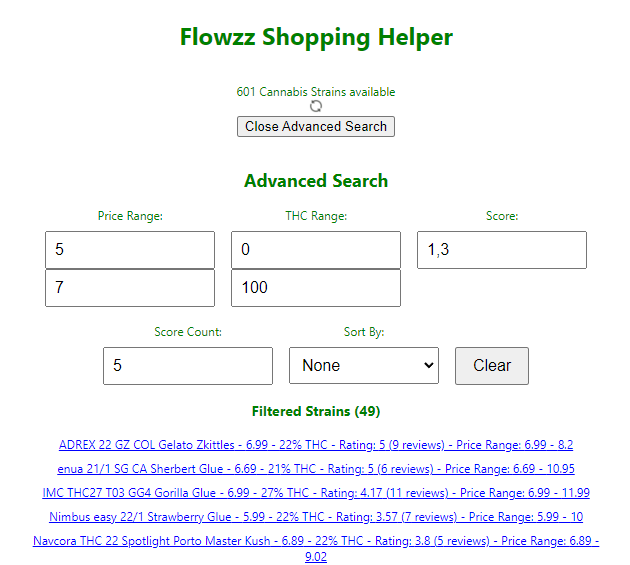
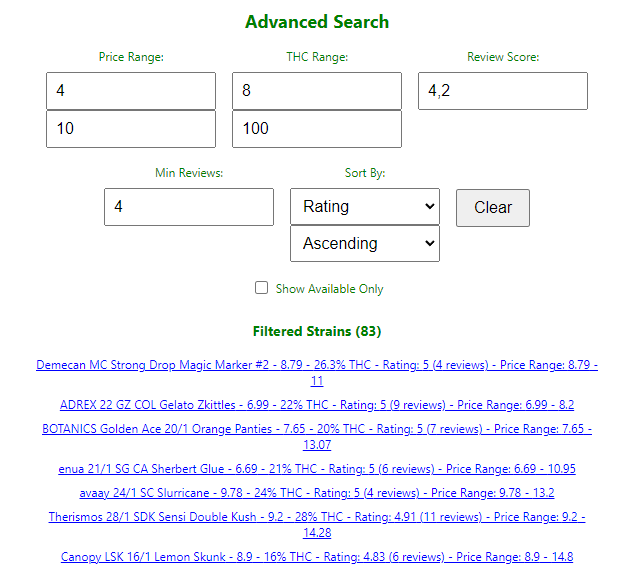
better advanced search

diff --git a/src/components/AdvancedSearch.svelte b/src/components/AdvancedSearch.svelte
@@ -11,6 +11,8 @@
     let ratingMin = 0;
     let scoreCountMin = 0;
     let sortOption = '';
+    let sortOrder = 'asc';
+    let showAvailableOnly = false;
   
     // Reactive computed property for filtered strains
     $: filteredStrains = cannabisStrains.filter(strain => {
@@ -23,22 +25,32 @@
       // Apply rating filter
       const isRatingInRange = strain.ratings_score >= ratingMin && strain.ratings_count >= scoreCountMin;
   
-      return isPriceInRange && isThcInRange && isRatingInRange;
+      // Apply availability filter
+      const isAvailable = showAvailableOnly ? strain.availibility === 1 : true;
+  
+      return isPriceInRange && isThcInRange && isRatingInRange && isAvailable;
     }).sort((a, b) => {
+      let comparison = 0;
       switch (sortOption) {
-        case 'alphabetAsc':
-          return a.name.localeCompare(b.name);
-        case 'alphabetDesc':
-          return b.name.localeCompare(a.name);
+        case 'name':
+          comparison = a.name.localeCompare(b.name);
+          break;
         case 'price':
-          return a.min_price - b.min_price;
+          comparison = a.min_price - b.min_price;
+          break;
         case 'rating':
-          return b.ratings_score - a.ratings_score;
+          comparison = b.ratings_score - a.ratings_score;
+          break;
         case 'thc':
-          return b.thc - a.thc;
+          comparison = b.thc - a.thc;
+          break;
+        case 'reviewCount':
+          comparison = b.ratings_count - a.ratings_count;
+          break;
         default:
-          return 0;
+          break;
       }
+      return sortOrder === 'asc' ? comparison : -comparison;
     });
   
     function openInCurrentTab(url) {
@@ -55,16 +67,16 @@
         thcMax,
         ratingMin,
         scoreCountMin,
-        sortOption
+        sortOption,
+        sortOrder,
+        showAvailableOnly
       };
-      console.log("Saving state:", state); // Debug log
       localStorage.setItem('advancedSearchState', JSON.stringify(state));
     }
   
     function loadState() {
       const state = JSON.parse(localStorage.getItem('advancedSearchState'));
       if (state) {
-        console.log("Loading state:", state); // Debug log
         priceMin = state.priceMin;
         priceMax = state.priceMax;
         thcMin = state.thcMin;
@@ -72,8 +84,8 @@
         ratingMin = state.ratingMin;
         scoreCountMin = state.scoreCountMin;
         sortOption = state.sortOption;
-      } else {
-        console.log("No state found in localStorage."); // Debug log
+        sortOrder = state.sortOrder;
+        showAvailableOnly = state.showAvailableOnly;
       }
     }
   
@@ -85,6 +97,8 @@
       ratingMin = 0;
       scoreCountMin = 0;
       sortOption = '';
+      sortOrder = 'asc';
+      showAvailableOnly = false;
       saveState();
     }
   
@@ -107,26 +121,36 @@
         <input type="number" bind:value={thcMax} min="0" max="100" placeholder="Max THC" on:input={saveState}/>
       </div>
       <div class="filter-item">
-        <label>Score:</label>
+        <label>Review Score:</label>
         <input type="number" bind:value={ratingMin} min="0" max="5" step="0.1" placeholder="Min Score" on:input={saveState}/>
       </div>
       <div class="filter-item">
-        <label>Score Count:</label>
+        <label>Min Reviews:</label>
         <input type="number" bind:value={scoreCountMin} min="0" placeholder="Min Score Count" on:input={saveState}/>
       </div>
       <div class="filter-item">
         <label>Sort By:</label>
         <select bind:value={sortOption} on:change={saveState}>
           <option value="">None</option>
-          <option value="alphabetAsc">Alphabet (ASC)</option>
-          <option value="alphabetDesc">Alphabet (DESC)</option>
+          <option value="name">Name</option>
           <option value="price">Price</option>
           <option value="rating">Rating</option>
           <option value="thc">THC</option>
+          <option value="reviewCount">Review Count</option>
+        </select>
+        <select bind:value={sortOrder} on:change={saveState}>
+          <option value="asc">Ascending</option>
+          <option value="desc">Descending</option>
         </select>
       </div>
       <div class="filter-item">
         <button class="clear-button" on:click={clearFilters}>Clear</button>
+      </div>
+      <div class="filter-item checkbox-item">
+        <label class="checkbox-container">
+          <input type="checkbox" bind:checked={showAvailableOnly} on:change={saveState}/>
+          Show Available Only
+        </label>
       </div>
     </div>
   
@@ -157,6 +181,18 @@
       flex-direction: column;
       align-items: center;
     }
+    .checkbox-item {
+      display: flex;
+      align-items: center;
+    }
+    .checkbox-container {
+      display: flex;
+      align-items: center;
+    }
+    .checkbox-container input[type="checkbox"] {
+      width: auto;
+      margin-right: 0.5rem;
+    }
     label {
       margin-bottom: 0.5rem;
     }
@@ -172,7 +208,7 @@
       cursor: pointer;
     }
     .clear-button {
-      margin-top: 24px;
+      margin-top: 25px;
     }
     ul {
       list-style-type: none;

diff --git a/src/components/SyncStrains.svelte b/src/components/SyncStrains.svelte
@@ -30,6 +30,7 @@
 				min_price: strain.min_price,
 				max_price: strain.max_price,
 				url: strain.url,
+				availibility: strain.availibility
 			}));
 			strainCount = strains.length;
 			updateMessage(`${strainCount} Cannabis Strains available`);
@@ -56,6 +57,7 @@
 				min_price: strain.min_price,
 				max_price: strain.max_price,
 				url: strain.url,
+				availibility: strain.availibility
 			}));
 			strainCount = strains.length;
 			dispatch("strainsUpdated", { cannabisStrains, strainCount });
